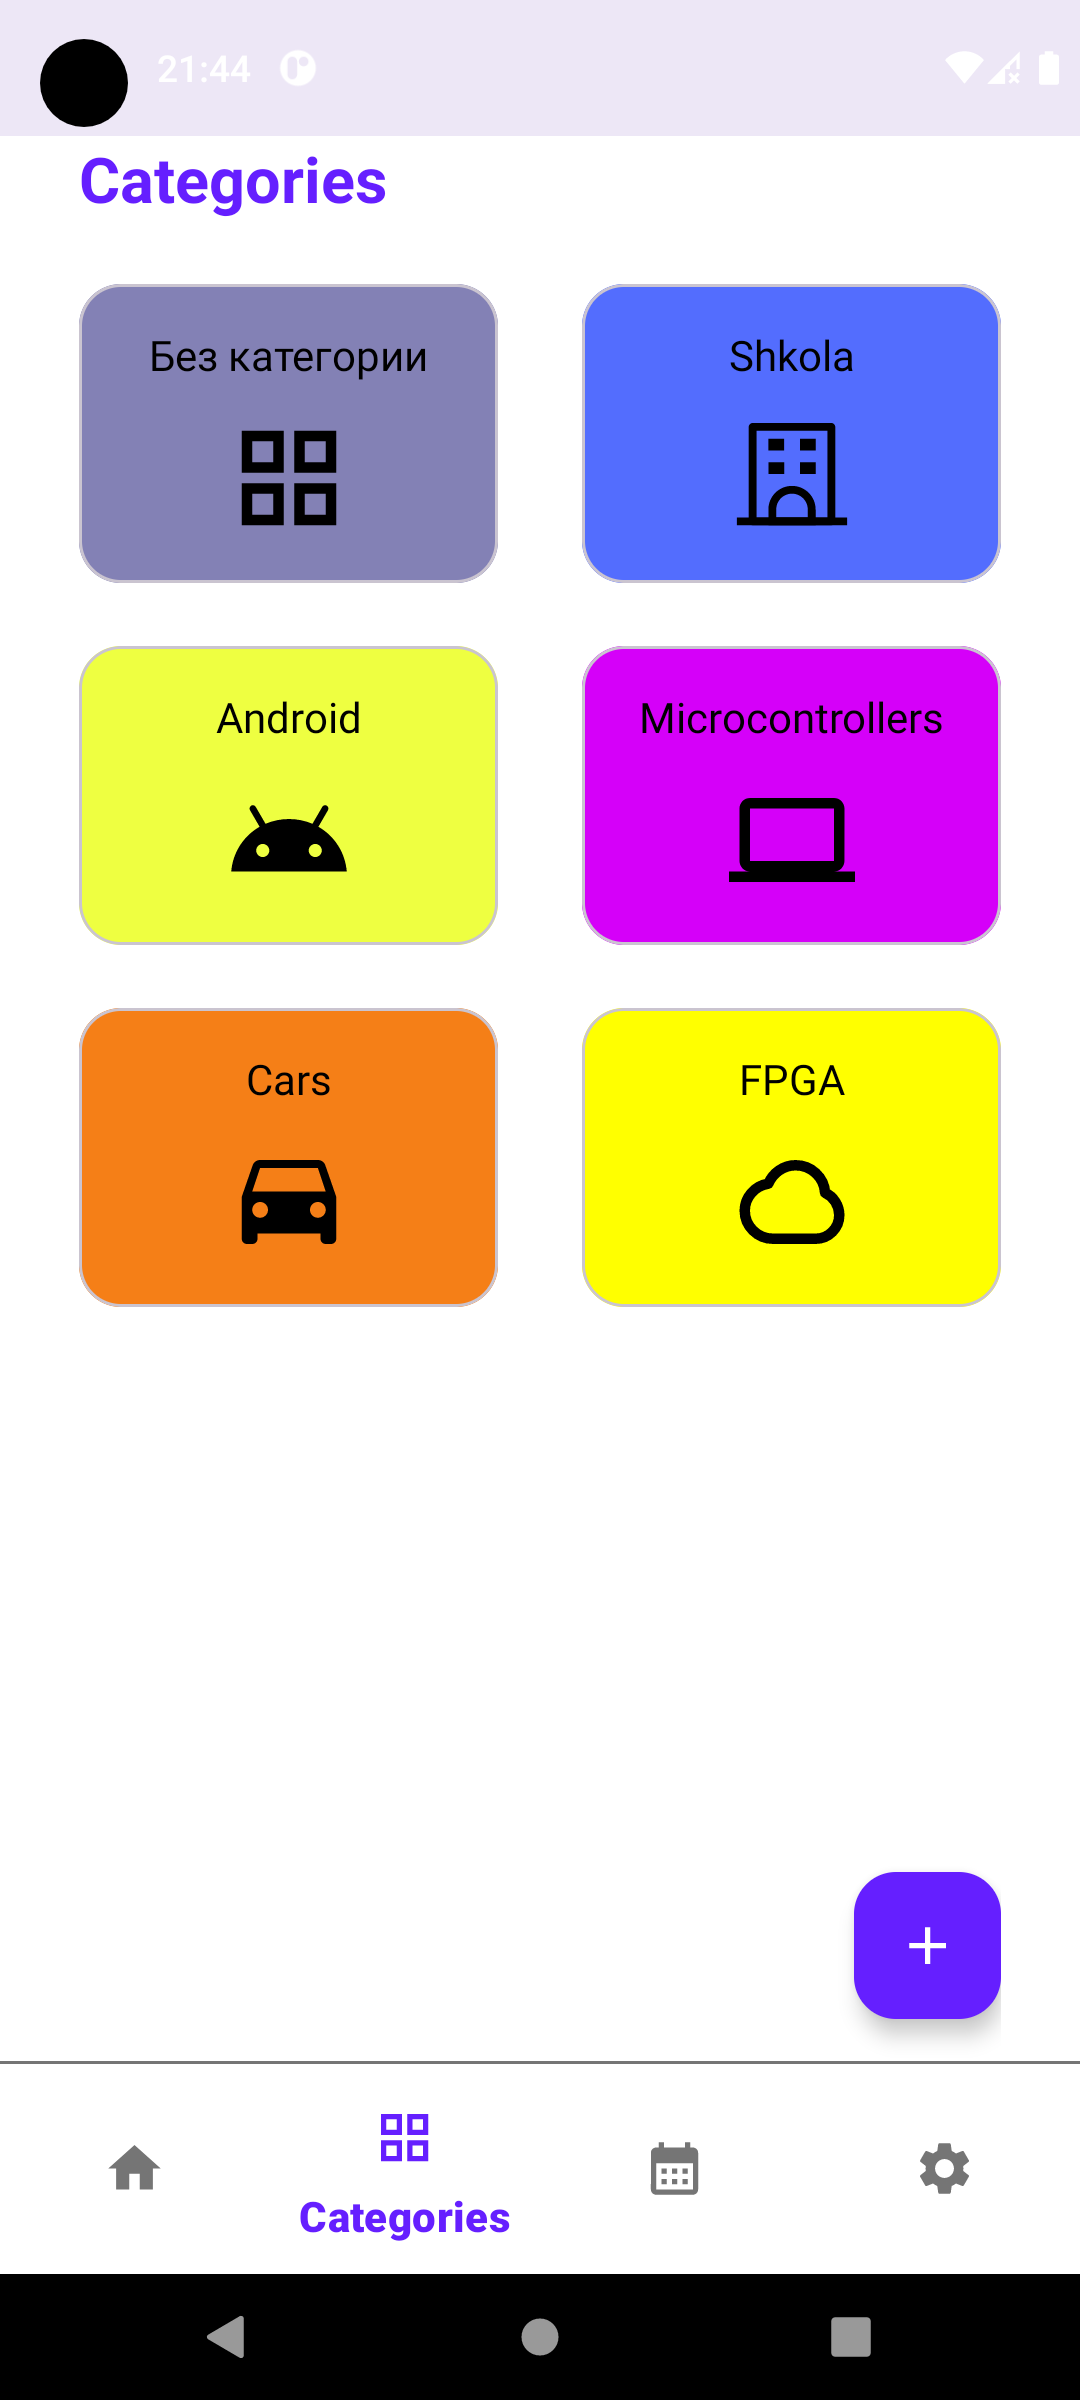
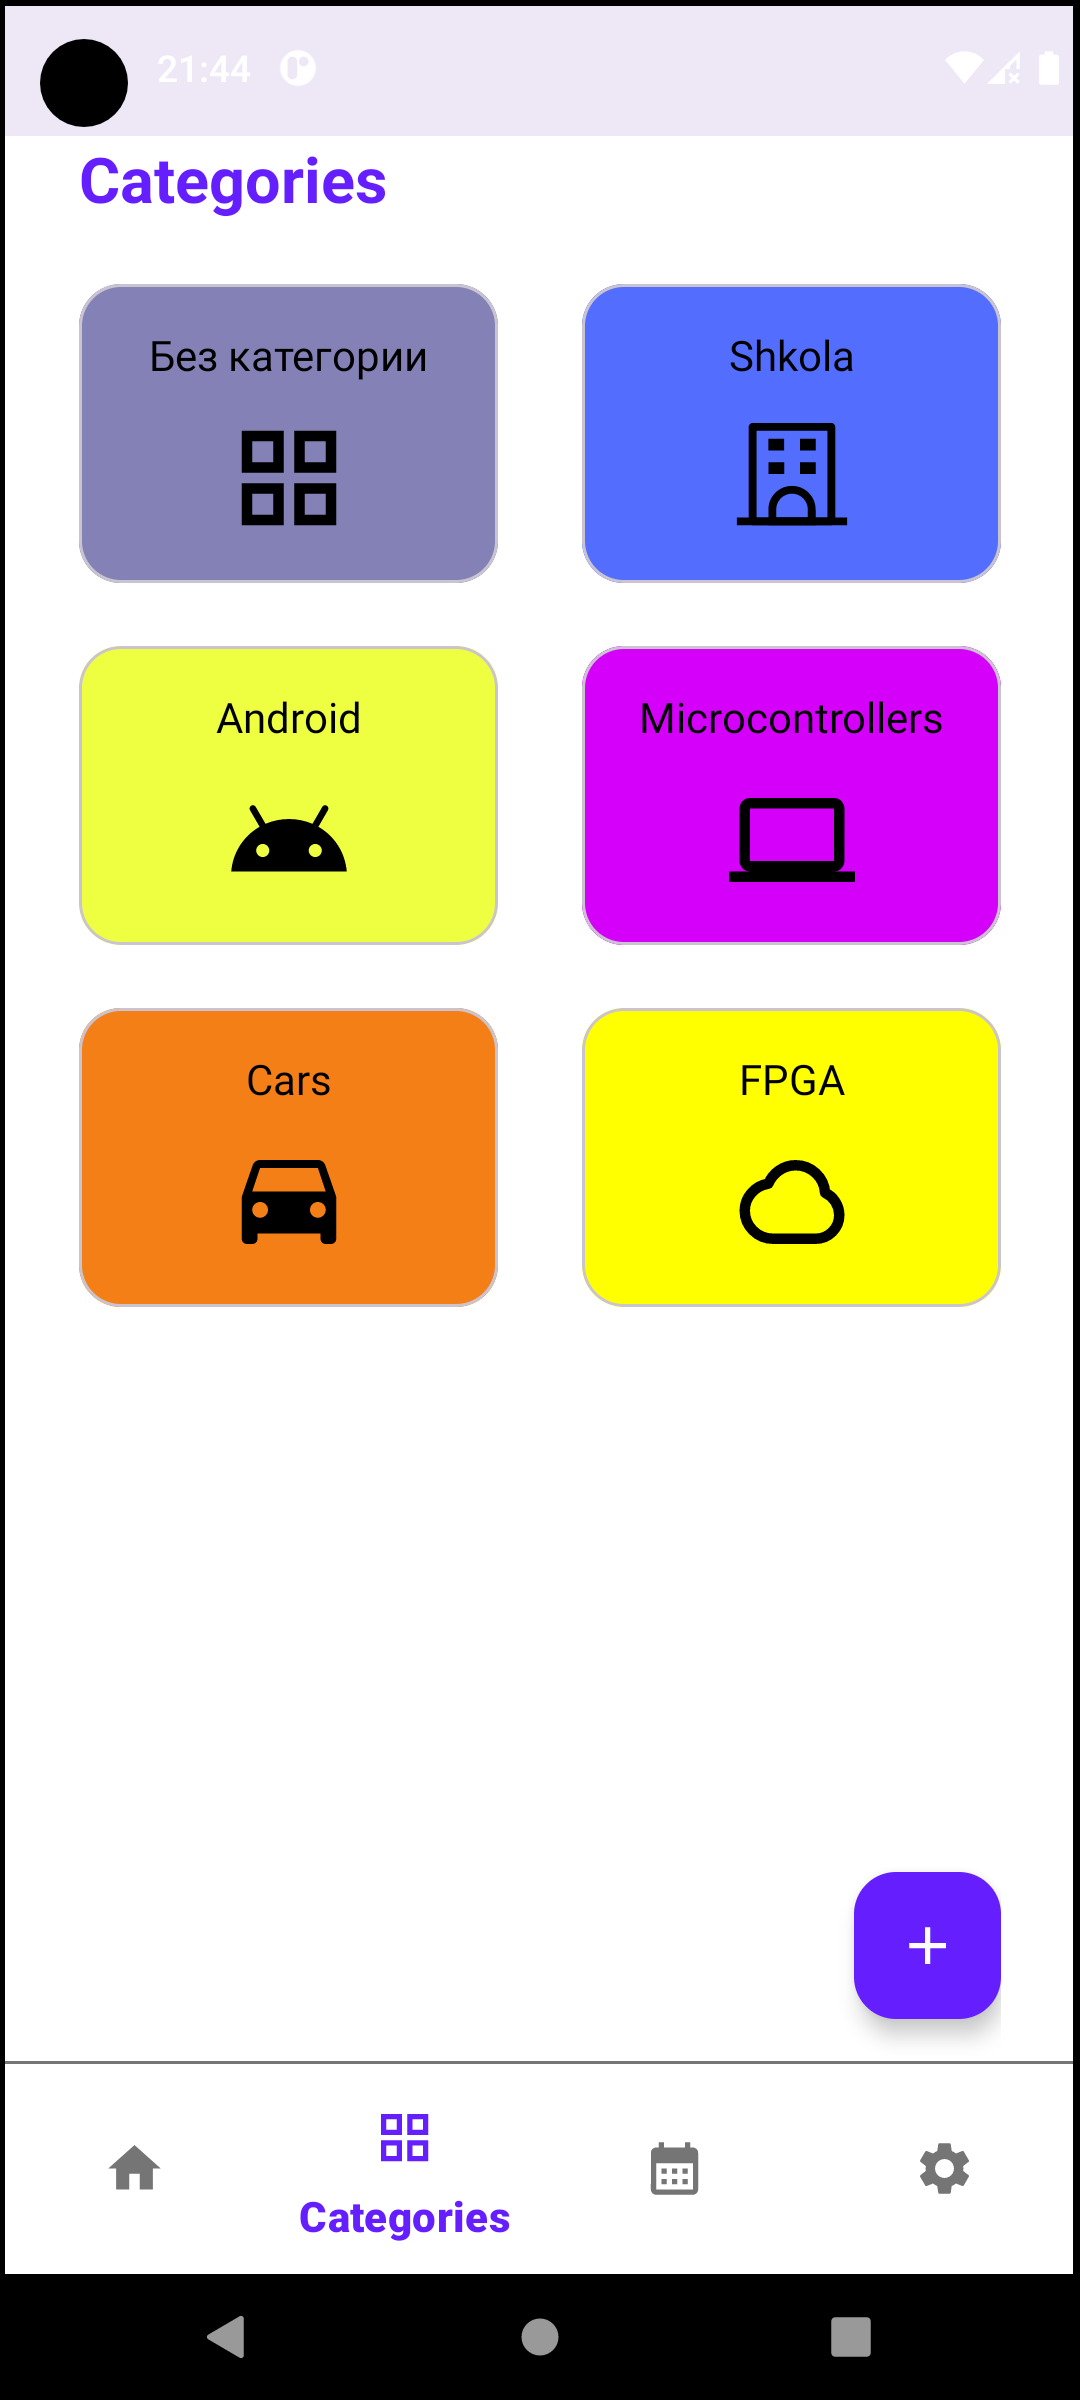
Для картинок со скриншотами приложения со светлой темой добавлена рамка для улучшения визуального восприятия. Изменено отображение картинок в файлах readme - по три картинки в несколько рядов.

Changed region(s): [[0.9778, 0.0, 1.0, 0.9375], [0.0, 0.0, 0.0306, 0.9375]]

diff --git a/readme/README.ru.MD b/readme/README.ru.MD
@@ -69,13 +69,9 @@ git clone https://github.com/profitsw2000/DiaryNote.git
 
 ## Иллюстрации
 
-<img src="./screenshots/dn_sign_in.png" width = 300>
-<img src="./screenshots/dn_main.png" width = 300>
-<img src="./screenshots/dn_categories.png" width = 300>
-<img src="./screenshots/dn_calendar.png" width = 300>
-<img src="./screenshots/dn_settings.png" width = 300>
-<img src="./screenshots/dn_note_creation.png" width = 300>
-<img src="./screenshots/dn_main_dark_theme.png" width = 300>
+<img src="./screenshots/dn_sign_in.png" width = "30%" hspace="10" vspace="10"> <img src="./screenshots/dn_main.png" width = "30%" hspace="10" vspace="10"> <img src="./screenshots/dn_categories.png" width = "30%" hspace="10" vspace="10">
+<img src="./screenshots/dn_calendar.png" width = "30%" hspace="10" vspace="10"> <img src="./screenshots/dn_settings.png" width = "30%" hspace="10" vspace="10"> <img src="./screenshots/dn_note_creation.png" width = "30%" hspace="10" vspace="10">
+<img src="./screenshots/dn_main_dark_theme.png" width = "30%">
 
 ## Функциональность
 
